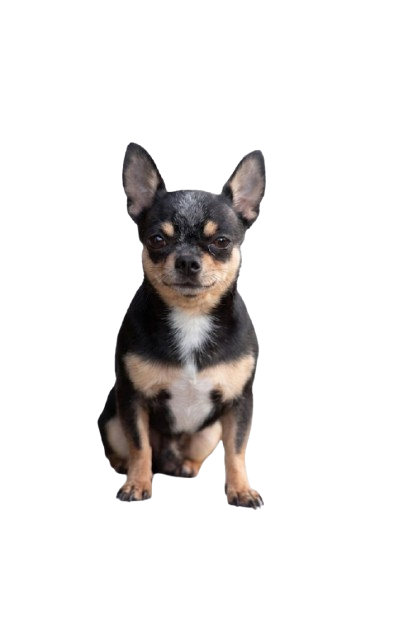
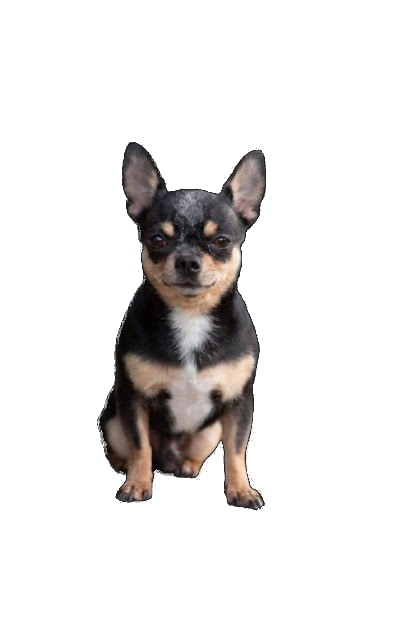
fatdog

diff --git a/assets/card.js b/assets/card.js
@@ -209,36 +209,8 @@ export const _cardReady = _dogLoaded.then(() => {
     const dx = Math.floor(DOG_X - dw / 2);
     const dy = Math.floor(HEADER_H + (H - HEADER_H) / 2 - dh / 2);
 
-    // Draw dog inside a soft rounded-rect frame to hide the black bg cleanly
-    ctx.save();
-    // Clip to rounded rect matching dog area
-    const pad = 8;
-    const rx = 18;
-    ctx.beginPath();
-    ctx.moveTo(dx + pad + rx, dy + pad);
-    ctx.lineTo(dx + dw - pad - rx, dy + pad);
-    ctx.quadraticCurveTo(dx + dw - pad, dy + pad, dx + dw - pad, dy + pad + rx);
-    ctx.lineTo(dx + dw - pad, dy + dh - pad - rx);
-    ctx.quadraticCurveTo(
-      dx + dw - pad,
-      dy + dh - pad,
-      dx + dw - pad - rx,
-      dy + dh - pad,
-    );
-    ctx.lineTo(dx + pad + rx, dy + dh - pad);
-    ctx.quadraticCurveTo(dx + pad, dy + dh - pad, dx + pad, dy + dh - pad - rx);
-    ctx.lineTo(dx + pad, dy + pad + rx);
-    ctx.quadraticCurveTo(dx + pad, dy + pad, dx + pad + rx, dy + pad);
-    ctx.closePath();
-    ctx.clip();
+    // Dog PNG now has transparency (bg removed in preprocessing)
     ctx.drawImage(_dogImg, dx, dy, dw, dh);
-    ctx.restore();
-    // Soft pink overlay on the black area (top of image) to blend with card bg
-    const dogBlend = ctx.createLinearGradient(dx, dy, dx, dy + dh * 0.18);
-    dogBlend.addColorStop(0, "rgba(253,232,240,0.92)");
-    dogBlend.addColorStop(1, "rgba(253,232,240,0)");
-    ctx.fillStyle = dogBlend;
-    ctx.fillRect(dx, dy, dw, dh * 0.18);
   }
 });
 
